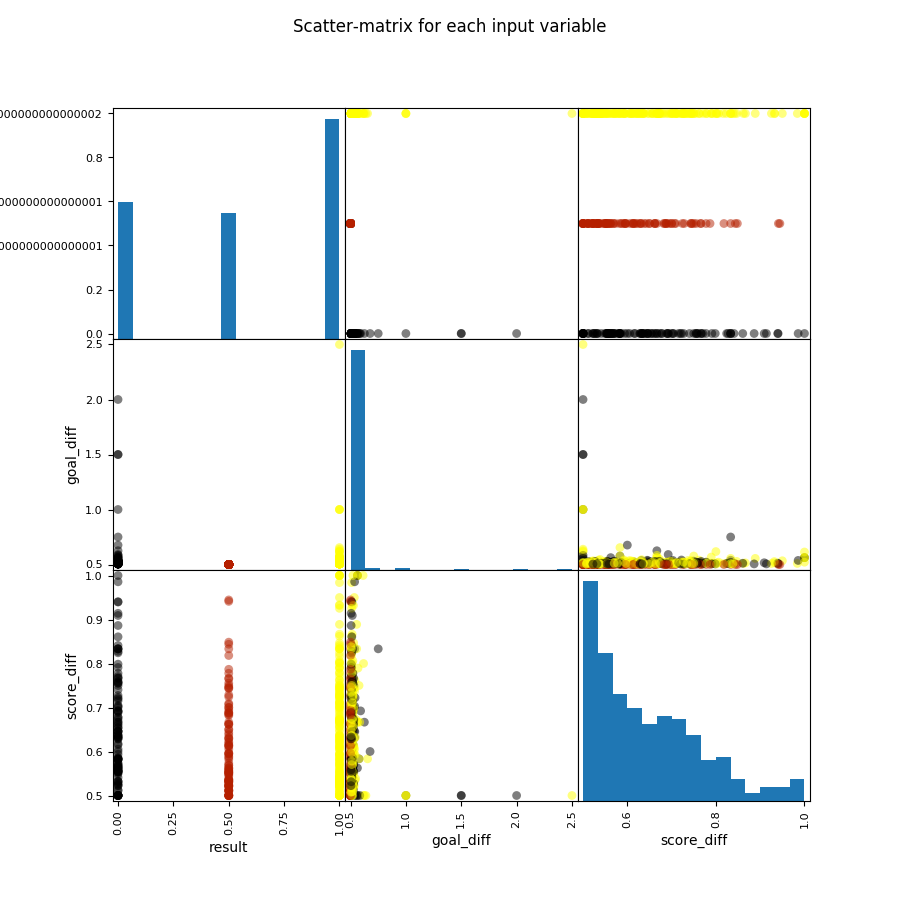
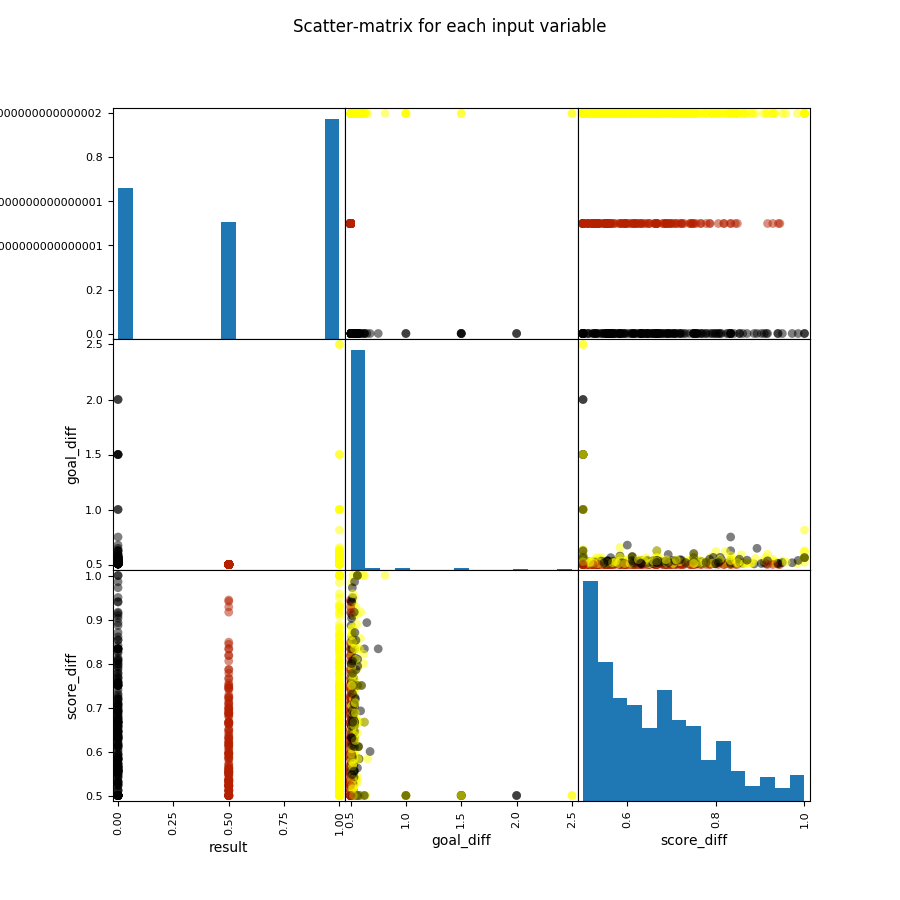
[Added more ML algorithms but there's some kind of bug with data types]

diff --git a/mysite/polls/Data/Analysis/data_analysis.py b/mysite/polls/Data/Analysis/data_analysis.py
@@ -7,36 +7,86 @@ from .dependence_graphs import generate_dependecy_graphs
 from ...models import ExtractedFixtures
 
 from sklearn.preprocessing import MinMaxScaler
+from sklearn.model_selection import train_test_split
+
+from sklearn.linear_model import LogisticRegression
+from sklearn.tree import DecisionTreeClassifier
+from sklearn.neighbors import KNeighborsClassifier
+
+from sklearn import preprocessing
+from sklearn import utils
 
 
 def analyze_data():
-    all_data = ExtractedFixtures.objects.all().order_by('season', 'home_team')
+    all_data_df = pd.DataFrame.from_records(ExtractedFixtures.objects.all(). \
+                                            filter(season__gte="17/18"). \
+                                            order_by('season', 'home_team').values(),
+                                            exclude=['id'])
 
-    train_data = [x for x in all_data if x.season == "17/18"]
-    test_data = [x for x in all_data if x.season == "18/19"]
-
-    train_df = pd.DataFrame.from_records(
-        ExtractedFixtures.objects.all().filter(season="17/18").values(), exclude=['id'])
-
-    test_df = pd.DataFrame.from_records(
-        ExtractedFixtures.objects.all().filter(season="18/19").values(), exclude=['id'])
+    generate_dependecy_graphs(all_data_df)
 
     feature_names = ['result', 'goal_diff', 'score_diff']
+    X = all_data_df[feature_names]
+    Y = all_data_df['result']
+
+    generate_scatter_matrix(X, Y)
 
     # apply min max normalization scaling to data
+
+    X_train, X_test, Y_train, Y_test = train_test_split(X, Y, random_state=0)
+
     scaler = MinMaxScaler()
 
-    X_train = train_df[feature_names]
-    Y_train = train_df['result']
+    # X_train = scaler.fit_transform(X_train)
+    # X_test = scaler.transform(X_test)
 
-    X_train_normalized = scaler.fit_transform(X_train)
+    # BUILDING MODELS
 
-    generate_dependecy_graphs(train_df)
-    generate_scatter_matrix(X_train, Y_train)
+    # -----------> logistic regression
+    # BUG: Throws some error because it expects classifiers not floats
+    # see solution here : https://stackoverflow.com/questions/41925157/logisticregression-unknown-label-type-continuous-using-sklearn-in-python
+    # logistic_regression(X_train, Y_train, X_test, Y_test)
 
+    # -----------> decision_tree
+    # BUG: Same as above
+    # decision_tree(X_train, Y_train, X_test, Y_test)
+
+    # -----------> decision_tree
+    # BUG: Same as above
+    # k_neighbours(X_train, Y_train, X_test, Y_test)
+
+    # TODO Test for the rest from
+    # https://towardsdatascience.com/solving-a-simple-classification-problem-with-python-fruits-lovers-edition-d20ab6b071d2?fbclid=IwAR0kByuLFgCf3-pFw3Ff45g7I_e_yma0uxBmhilj2PA5m2RxShClYP-rSXM
     # poisson_distribution(train_df, test_df)
 
     print("debug")
+
+
+def logistic_regression(X_train, Y_train, X_test, Y_test):
+    logreg = LogisticRegression()
+    logreg.fit(X_train, Y_train)
+
+    print('Accuracy of Logistic regression classifier on training set: {:.2f}'
+          .format(logreg.score(X_train, Y_train)))
+    print('Accuracy of Logistic regression classifier on test set: {:.2f}'
+          .format(logreg.score(X_test, Y_test)))
+
+
+def decision_tree(X_train, Y_train, X_test, Y_test):
+    clf = DecisionTreeClassifier().fit(X_train, Y_train)
+    print('Accuracy of Decision Tree classifier on training set: {:.2f}'
+          .format(clf.score(X_train, Y_train)))
+    print('Accuracy of Decision Tree classifier on test set: {:.2f}'
+          .format(clf.score(X_test, Y_test)))
+
+
+def k_neighbours(X_train, Y_train, X_test, Y_test):
+    knn = KNeighborsClassifier()
+    knn.fit(X_train, Y_train)
+    print('Accuracy of K-NN classifier on training set: {:.2f}'
+          .format(knn.score(X_train, Y_train)))
+    print('Accuracy of K-NN classifier on test set: {:.2f}'
+          .format(knn.score(X_test, Y_test)))
 
 
 def poisson_distribution(train_df, test_df):
